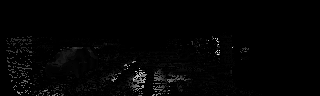
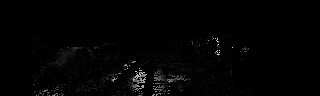
sgm_kernel-tb: refine the evaluation ROI to match kernel valid region

diff --git a/sgm_kernel-tb.cpp b/sgm_kernel-tb.cpp
@@ -202,7 +202,7 @@ int main(int argc, char** argv)
         cv::imwrite("disp_color.png", disp_color);
 
         int total_pixels = 0;
-        int gt_valid_count = 0, gt_invalid_count = 0;
+        int eval_valid_count = 0, eval_invalid_count = 0;
         int zero_count_on_gt_valid= 0;
         int nonzero_count_on_gt_valid= 0;
         int out_of_range_on_gt_valid= 0;
@@ -211,18 +211,37 @@ int main(int argc, char** argv)
         double sum_abs_err = 0.0;
         cv::Mat err_map(IMG_H, IMG_W, CV_32F, cv::Scalar(0));
 
+        const int cx = WIN >> 1;
+
+        const int valid_r_min = WIN - 1;
+        const int valid_c_min = (DISP - 1) + cx;
+        const int valid_c_max = IMG_W - cx;
+
         for (int r = 0; r < IMG_H; ++r)
         {
         	for (int c = 0; c < IMG_W; ++c)
         	{
         		++total_pixels;
         		float gt_disp = gt_f.at<float>(r,c);
-        		if(gt_disp <= 0.0f)
+
+                bool gt_valid = gt_disp > 0.0f;
+                bool roi_valid =
+                    (r >= valid_r_min) &&
+                    (c >= valid_c_min) &&
+                    (c < valid_c_max);
+
+                bool disp_range_valid =
+                    (gt_disp >= 0.0f) &&
+                    (gt_disp < DISP);
+
+                bool eval_valid = gt_valid && roi_valid && disp_range_valid;
+
+        		if(!eval_valid)
         			{
-        				++gt_invalid_count;
+        				++eval_invalid_count;
         				continue;
         			}
-        		++gt_valid_count;
+        		++eval_valid_count;
 
         		float est_disp = float(disp.at<out_u_t>(r,c));
 
@@ -254,21 +273,21 @@ int main(int argc, char** argv)
         cv::imwrite("err_map.png", err_vis);
 
         std::cout << "Total pixels: " << total_pixels << "\n";
-        std::cout << "GT-valid pixels (>0): " << gt_valid_count << "\n";
-        std::cout << "GT-invalid pixels (<=0): " << gt_invalid_count << "\n";
+        std::cout << "GT-valid pixels (>0): " << eval_valid_count << "\n";
+        std::cout << "GT-invalid pixels (<=0): " << eval_invalid_count << "\n";
         std::cout << "est == 0 on GT-valid pixels: " << zero_count_on_gt_valid << "\n";
         std::cout << "est != 0 on GT-valid pixels: " << nonzero_count_on_gt_valid << "\n";
         std::cout << "est out of range on GT-valid pixels: " << out_of_range_on_gt_valid << "\n";
 
-        if (gt_valid_count == 0)
+        if (eval_valid_count == 0)
         {
             std::cerr << "ERROR: No valid GT pixels for comparison\n";
             return 6;
         }
 
-        std::cout << "MAE: " << (sum_abs_err / gt_valid_count) << "\n";
-        std::cout << "Bad >1 px: " << (100.0 * bad1 / gt_valid_count) << "%\n";
-        std::cout << "Bad >3 px: " << (100.0 * bad3 / gt_valid_count) << "%\n";
+        std::cout << "MAE: " << (sum_abs_err / eval_valid_count) << "\n";
+        std::cout << "Bad >1 px: " << (100.0 * bad1 / eval_valid_count) << "%\n";
+        std::cout << "Bad >3 px: " << (100.0 * bad3 / eval_valid_count) << "%\n";
 
         return 0;
 }
